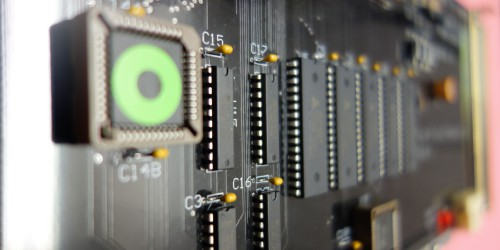
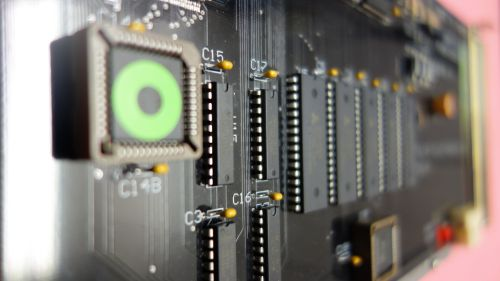
Just getting back to this from yesterday. Got the right aspect ratio on the images, and other style tweaks - definitely at the best point yet. Today I'm working on more content, small color tweaks, and mainly the contact form.

diff --git a/_form.html b/_form.html
@@ -1,0 +1,39 @@
+<form id="contact_form" action="#" method="POST" enctype="multipart/form-data">
+	<div class="row">
+		<label for="name">Your name:</label><br />
+		<input id="name" class="input" name="name" type="text" value="" size="30" /><br />
+		<label for="name">Company name:</label><br />
+		<input id="name" class="input" name="name" type="text" value="" size="30" /><br />
+	</div>
+	<div class="row">
+		<label for="email">Your email:</label><br />
+		<input id="email" class="input" name="email" type="text" value="" size="30" /><br />
+	</div>
+	<div class="row">
+		<input type="checkbox" name"option1" value="Fanuc Model 6"> Fanuc Model 0<br />
+		<input type="checkbox" name"option1" value="Fanuc Model 6"> Fanuc Model 6<br />
+		<input type="checkbox" name"option1" value="Fanuc Model 6"> Fanuc Model 9<br />
+		<input type="checkbox" name"option1" value="Fanuc Model 6"> Fanuc Model 10<br />
+		<input type="checkbox" name"option1" value="Fanuc Model 6"> Fanuc Model 11<br />
+		<input type="checkbox" name"option1" value="Fanuc Model 6"> Fanuc Model 12<br />
+		<input type="checkbox" name"option1" value="Fanuc Model 6"> Fanuc Model 15<br />
+		<input type="checkbox" name"option1" value="Fanuc Model 6"> Fanuc Model 16<br />
+		<input type="checkbox" name"option1" value="Fanuc Model 6"> Fanuc Model 18<br />
+		<input type="checkbox" name"option1" value="Fanuc Model 6"> Fanuc Model 6<br />
+		<input type="checkbox" name"option1" value="Fanuc Model 6"> Fanuc Model 6<br />
+		<input type="checkbox" name"option1" value="Fanuc Model 6"> Fanuc Model 6<br />
+		<input type="checkbox" name"option1" value="Fanuc Model 6"> Fanuc Model 6<br />
+
+
+		<textarea id="message" class="input" name="message" rows="7" cols="30"></textarea><br />
+	</div>
+	<div class="row">
+		<label for="message">Your message:</label><br />
+		<textarea id="message" class="input" name="message" rows="7" cols="30"></textarea><br />
+	</div>
+	<div class="row">
+		<label for="message">Your message:</label><br />
+		<textarea id="message" class="input" name="message" rows="7" cols="30"></textarea><br />
+	</div>
+	<input id="submit_button" type="submit" value="Send email" />
+</form>	

diff --git a/2-modules/_cards.scss b/2-modules/_cards.scss
@@ -8,26 +8,26 @@
 .card {
   $base-border-color: #77cf22; // #477DCA !default;
   $base-color: #77cf22; //  #ffcf22;
-  $base-border-radius: 3px !default;
+  $base-border-radius: 5px !default;
   $base-background-color: white !default;
   $base-spacing: 1.5em !default;
   $action-color: #ffcf22 !default;
   $dark-gray: #333 !default;
   $base-font-color: $dark-gray !default;
   $card-border-color: $base-border-color;
-  $card-border: 5px solid transparent; //$card-border-color;
+  $card-border: 5px solid $card-border-color;
+  $card-active-border: 5px solid $base-color;
   $card-background: change-color($base-color, $lightness: 35%, $alpha: .75);
   $card-header-background: $card-background;
   $card-margin: 2em;
   $card-image-hover-opacity: 0.7;
-  $card-image-hover-color: #F8F2B4;
+  $card-image-hover-color: change-color(#ffcf22, $alpha: 0.5);
 
   @include flex-basis(15em);
   @include flex-grow(1);
   @include transition (all 0.2s ease-in-out);
-  background-color: $card-background;
   border-radius: $base-border-radius;
-  border: $card-border;
+  border: 5px solid change-color($base-color, $alpha: .1);
  // box-shadow: 0 2px 4px darken($base-background-color, 10%);
   cursor: pointer;
   margin: $card-margin $card-margin $base-spacing $card-margin;
@@ -51,7 +51,7 @@
 
   .card-header {
     @include transition (all 0.2s ease-in-out);
-    background-color: $card-header-background;
+    background-color: change-color($base-color, $alpha: .1);
     border-bottom: $card-border;
     border-radius: $base-border-radius $base-border-radius 0 0;
     font-weight: bold;
@@ -73,17 +73,18 @@
   &:focus,
   &:hover {
     cursor: pointer;
-
+    border: $card-active-border;
+    p { color: #ffcf22; }
     img {
       opacity: $card-image-hover-opacity;
     }
   }
 
   &:active {
-    background-color: $card-background;
-
+    //background-color: $card-background;
+    border: $card-active-border;
     .card-header {
-      background-color: $card-background;
+      //background-color: $card-background;
     }
   }
 }

diff --git a/css/app.css b/css/app.css
@@ -588,9 +588,8 @@ background-size: cover; */
   -webkit-transition: all 0.2s ease-in-out;
   -moz-transition: all 0.2s ease-in-out;
   transition: all 0.2s ease-in-out;
-  background-color: rgba(88, 153, 25, 0.75);
   border-radius: 3px;
-  border: 5px solid transparent;
+  border: 5px solid rgba(119, 207, 34, 0.1);
   cursor: pointer;
   margin: 2em 2em 1.5em 2em;
   position: relative; }
@@ -598,7 +597,7 @@ background-size: cover; */
     overflow: hidden;
     height: 150px;
     max-height: 150px;
-    background-color: #F8F2B4; }
+    background-color: rgba(255, 207, 34, 0.5); }
     .card .card-image img {
       -webkit-transition: all 0.2s ease-in-out;
       -moz-transition: all 0.2s ease-in-out;
@@ -611,8 +610,8 @@ background-size: cover; */
     -webkit-transition: all 0.2s ease-in-out;
     -moz-transition: all 0.2s ease-in-out;
     transition: all 0.2s ease-in-out;
-    background-color: rgba(88, 153, 25, 0.75);
-    border-bottom: 5px solid transparent;
+    background-color: rgba(119, 207, 34, 0.1);
+    border-bottom: 5px solid #77cf22;
     border-radius: 3px 3px 0 0;
     font-weight: bold;
     line-height: 1.5em;
@@ -625,13 +624,14 @@ background-size: cover; */
     .card .card-copy p {
       margin: 0 0 0.75em; }
   .card:focus, .card:hover {
-    cursor: pointer; }
+    cursor: pointer;
+    border: 5px solid #77cf22; }
+    .card:focus p, .card:hover p {
+      color: #ffcf22; }
     .card:focus img, .card:hover img {
       opacity: 0.7; }
   .card:active {
-    background-color: rgba(88, 153, 25, 0.75); }
-    .card:active .card-header {
-      background-color: rgba(88, 153, 25, 0.75); }
+    border: 5px solid #77cf22; }
 
 .table-minimal {
   border-collapse: separate;

diff --git a/index.html b/index.html
@@ -45,7 +45,7 @@
             <div class="cards">
   <div class="card">
     <div class="card-image">
-      <img src="img/DSC03226-forweb.jpg" alt="">
+      <img src="img/DSC03208-forweb.jpg" alt="">
     </div>
     <div class="card-header">
       FANUC
